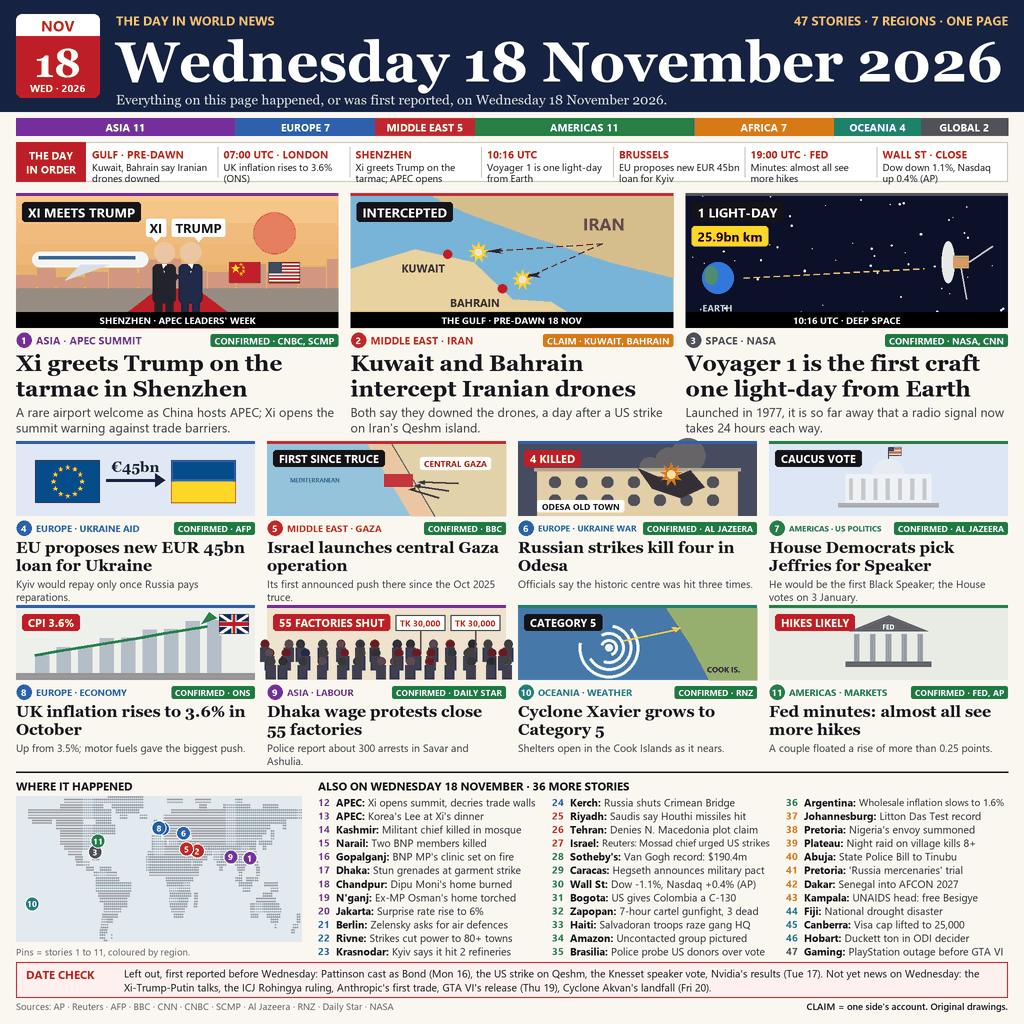
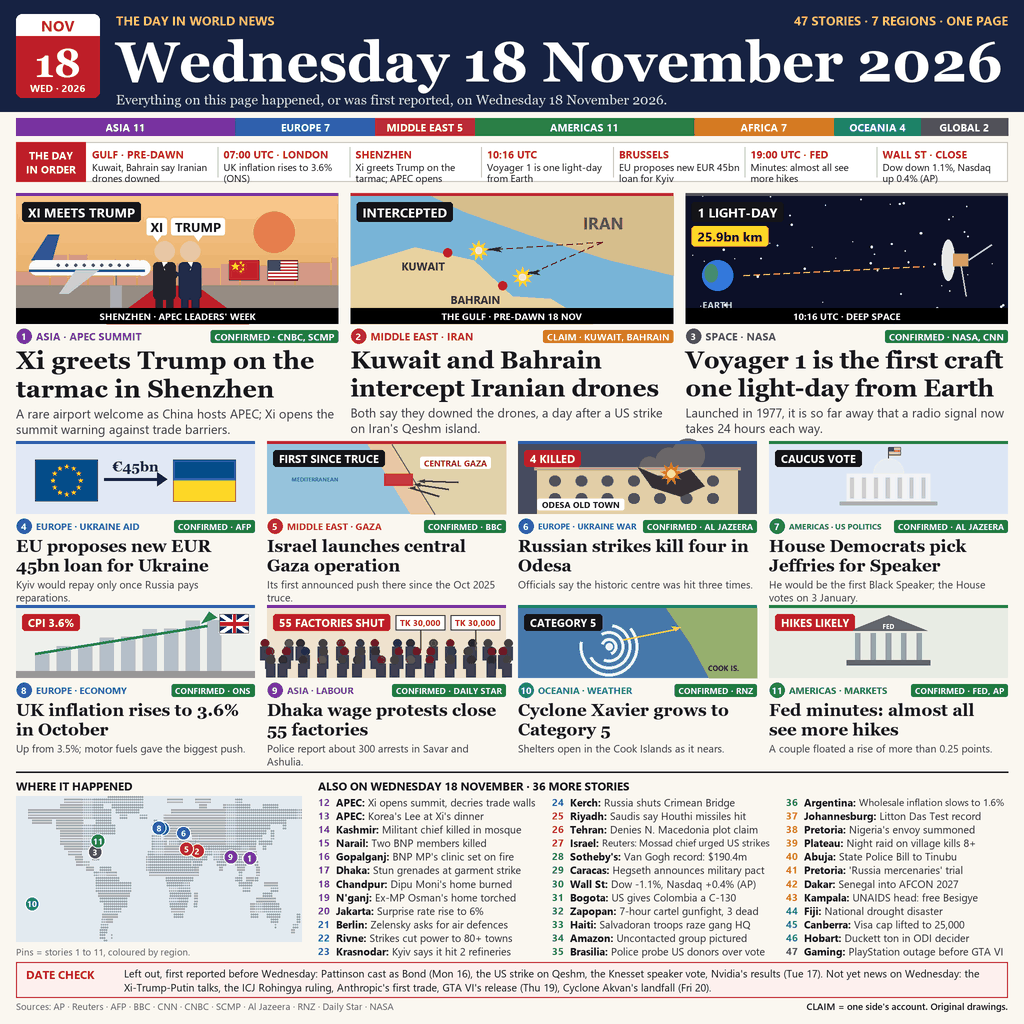
v6: larger headlines, clearer airliner in the Shenzhen lead

Changed region(s): [[0.0, 0.2188, 1.0, 0.75], [0.1875, 0.5938, 0.25, 0.625], [0.125, 0.5938, 0.1562, 0.625]]

diff --git a/art/draw.py b/art/draw.py
@@ -242,10 +242,19 @@ def scene(kind, x, y, w, h, o):
         poly([(cx - w * 0.06, y + h * 0.7), (cx + w * 0.06, y + h * 0.7), (cx + w * 0.22, y + h), (cx - w * 0.22, y + h)],
              (190, 30, 40))
         # plane
-        px, py = x + w * 0.05, y + h * 0.42
-        R(px, py, w * 0.36, h * 0.12, fill=(245, 245, 250), r=h * 0.06)
-        R(px + w * 0.02, py + h * 0.035, w * 0.3, h * 0.025, fill=(60, 90, 160))
-        poly([(px + w * 0.15, py + h * 0.1), (px + w * 0.24, py + h * 0.1), (px + w * 0.1, py + h * 0.22)], (220, 220, 228))
+        px, py = x + w * 0.04, y + h * 0.5
+        fl = w * 0.36
+        poly([(px + fl * 0.02, py), (px + fl * 0.16, py - h * 0.2), (px + fl * 0.26, py - h * 0.2), (px + fl * 0.2, py)],
+             (40, 70, 140))
+        R(px, py, fl, h * 0.12, fill=(248, 248, 252), r=h * 0.06)
+        E(px + fl - h * 0.02, py + h * 0.06, h * 0.06, fill=(248, 248, 252))
+        R(px, py + h * 0.075, fl, h * 0.02, fill=(40, 70, 140))
+        for i in range(9):
+            E(px + fl * (0.25 + 0.075 * i), py + h * 0.04, h * 0.012, fill=(70, 90, 120))
+        poly([(px + fl * 0.4, py + h * 0.08), (px + fl * 0.6, py + h * 0.08), (px + fl * 0.34, py + h * 0.26),
+              (px + fl * 0.26, py + h * 0.26)], (200, 205, 215))
+        L([(px + fl * 0.75, py + h * 0.12), (px + fl * 0.75, y + h * 0.95)], (120, 120, 120), 1.5)
+        R(px + fl * 0.7, y + h * 0.95 - h * 0.25, fl * 0.1, h * 0.25, fill=(170, 170, 175))
         person(cx - h * 0.1, y + h * 0.95, h * 0.6, (35, 35, 45), arm=cx)
         person(cx + h * 0.1, y + h * 0.95, h * 0.6, (30, 40, 70), arm=cx)
         for nm, px_ in ((o.get("n1"), cx - h * 0.16), (o.get("n2"), cx + h * 0.16)):
@@ -804,13 +813,13 @@ def main():
     y0 = 196
     lw = (W - 2 * M - 2 * 12) / 3
     for i, s in enumerate(C.LEADS):
-        card(s, i + 1, M + i * (lw + 12), y0, lw, 132, 22.5, 2, 12.5, 2, 0)
+        card(s, i + 1, M + i * (lw + 12), y0, lw, 128, 25, 2, 12.5, 2, 0)
     # tiles
     y1 = 444
     tw_ = (W - 2 * M - 3 * 12) / 4
     for i, s in enumerate(C.TILES):
         r, c = divmod(i, 4)
-        card(s, len(C.LEADS) + i + 1, M + c * (tw_ + 12), y1 + r * 164, tw_, 72, 16, 2, 10.5, 2, 0)
+        card(s, len(C.LEADS) + i + 1, M + c * (tw_ + 12), y1 + r * 164, tw_, 70, 17, 2, 10.5, 2, 0)
     # bottom: map + briefs
     yb = 778
     L([(M, yb - 6), (W - M, yb - 6)], INK, 1.5)
